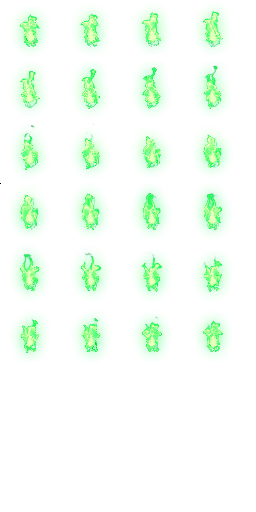
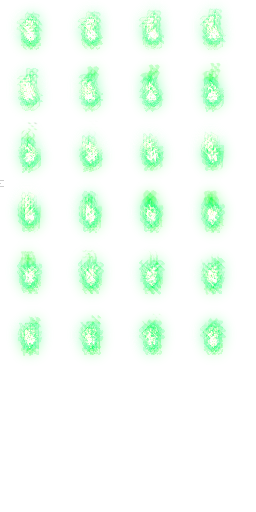
2.2: changed fireball:
- changed its texture
- removed second fireball
- changed its position to better fit new logo

diff --git a/core/src/main/java/com/zrp200/rkpd2/scenes/TitleScene.java b/core/src/main/java/com/zrp200/rkpd2/scenes/TitleScene.java
@@ -88,11 +88,9 @@ public class TitleScene extends PixelScene {
 		align(title);
 
 		if (landscape()){
-			placeTorch(title.x + 30, title.y + 35);
-			placeTorch(title.x + title.width - 30, title.y + 35);
+			placeTorch(title.x + 85, title.y + 70);
 		} else {
-			placeTorch(title.x + 16, title.y + 70);
-			placeTorch(title.x + title.width - 16, title.y + 70);
+			placeTorch(title.x + 33, title.y + 80);
 		}
 
 		Image signs = new Image(BannerSprites.get( landscape() ? BannerSprites.Type.TITLE_GLOW_LAND : BannerSprites.Type.TITLE_GLOW_PORT)){
